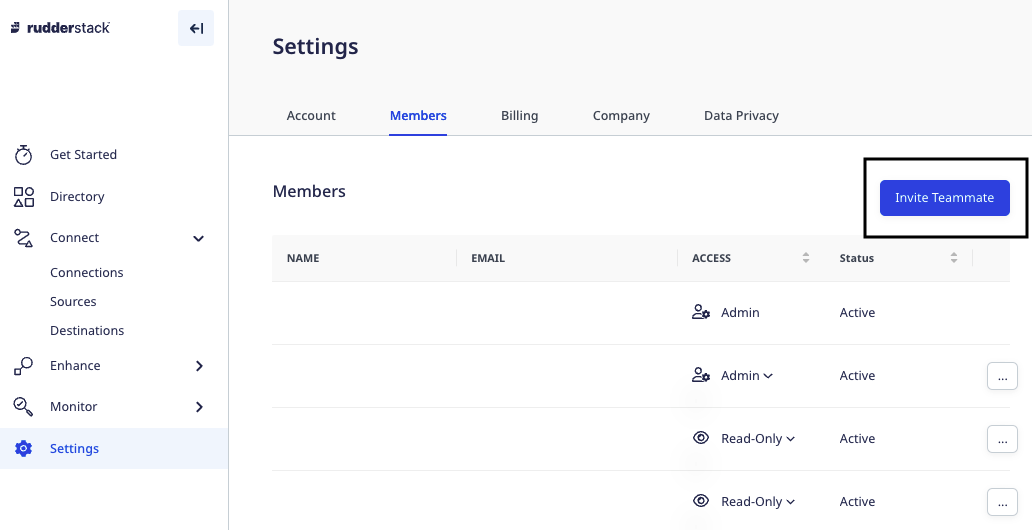
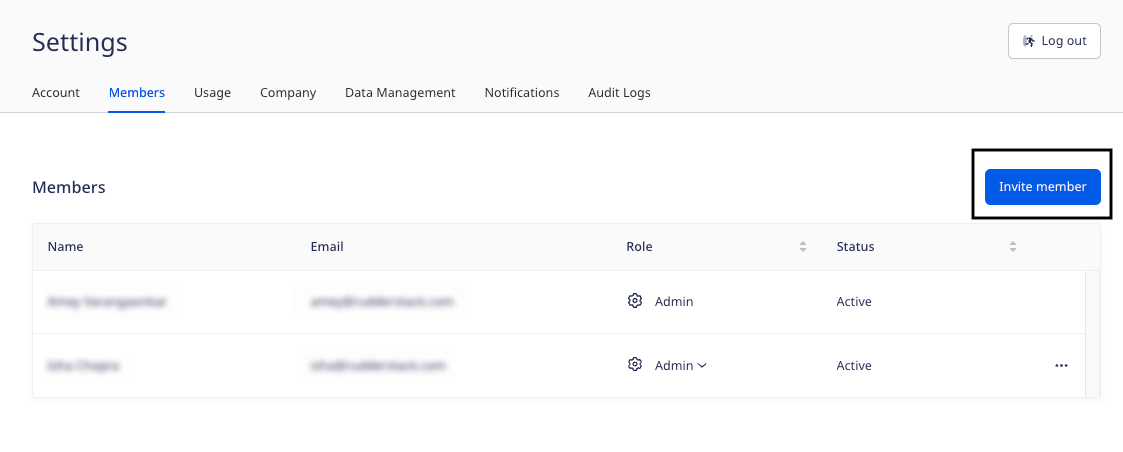
User management update (#1138)
* User management update

* Redirects and sidebar updates

* Apply suggestions from doc review

* Suggestions from doc review

diff --git a/src/sidebar.js b/src/sidebar.js
@@ -86,7 +86,7 @@ export const jsonData = [
     content: []
 },
 {
-    title: "User Management",
+    title: "Members (User Management)",
     link: "/dashboard-guides/user-management/",
     content: []
 },
